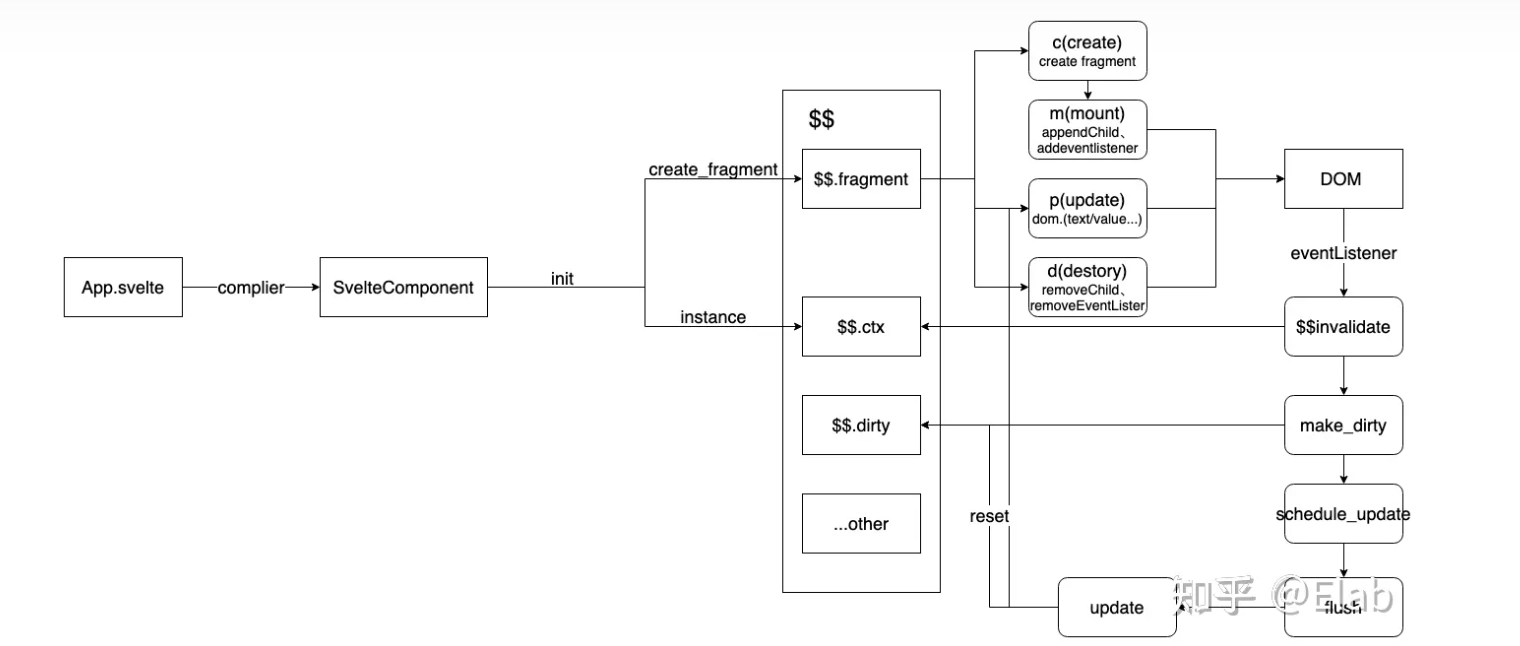
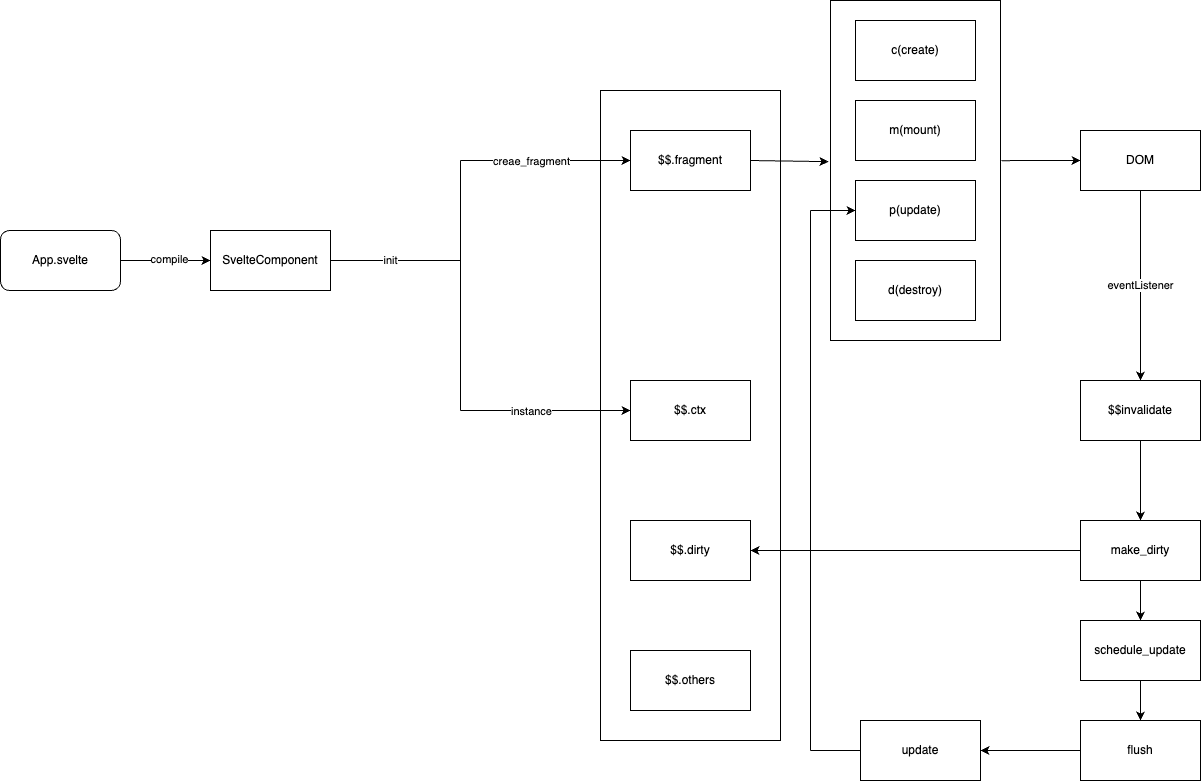
doc: 流程

diff --git a/45-【展望】致谢.md b/45-【展望】致谢.md
@@ -1,6 +1,6 @@
 恭喜你，相信经过这段时间的刻苦学习，你又掌握了一门技艺，又在前端旅程上更近一步。
 
-这段时间我总是如履薄冰，生怕自己写的文章会没有读者，亦或者被读者嫌弃是对其他文章的东施效颦。但庆幸的是，仍有读者阅读花上自己的宝贵时间，来购买阅读这本小册，在这里鞠躬感谢。这是我写的第一本小册，本着小而精的原则，在介绍一些知识时，我尽可能地把重要的部分讲解到位，而抽离了一些过于细节繁琐的部分。因此，如果觉得小册不够完美，还请读者朋友们包涵。
+这段时间我总是如履薄冰，生怕自己写的文章会没有读者。但庆幸的是，仍有读者阅读花上自己的宝贵时间，来购买阅读这本小册，在这里鞠躬感谢。这是我写的第一本小册，本着小而精的原则，在介绍一些知识时，我尽可能地把重要的部分讲解到位，而抽离了一些过于细节繁琐的部分。《源码》和《实现》这两章，单拎出来都能写成一本小册，因此也是点到为止。所以，如果觉得小册不够完美，还请读者朋友们包涵。
 
 对于全本小册的难易程度，我采用了螺旋前进式的方式进行讲解，让读者朋友们不会随着文章阅读的深入，渐渐觉得难度过大而力不从心。
 ![](image.png)

diff --git a/37-【源码】流程.md b/37-【源码】流程.md
@@ -725,8 +725,6 @@ const node = this.var;
     end: this.renderer.locate(this.node.end)
   };
   block.chunks.mount.push(insert);
-  // TODO we eventually need to consider what happens to elements
-  // that belong to the same outgroup as an outroing element...
   block.chunks.destroy.push(b`if (detaching) @detach(${node});`);
 + console.log('svelte render_element insert', insert, node, b`if (detaching) @detach(${node});`)
 ```
@@ -1123,8 +1121,6 @@ const result =
 
 ## runtime
 
-![](./img/37-44.png) TODO: 重画
-
 我们把在编译后得到的js代码复制进一个文件中`index.js`。
 在svelte源码项目目录下新建一个目录叫`test-runtime`，新建一个index.html：
 ```html
@@ -1270,6 +1266,9 @@ export function set_data(text, data) {
 }
 ```
 `set_data`方法的主要逻辑则是更新text节点的data属性的值。
+
+最后也提供一个简易的流程图：
+![](./img/37-44.png)
 
 ## 小结
 

diff --git a/35-【源码】compiler.md b/35-【源码】compiler.md
@@ -1101,6 +1101,8 @@ export default class Renderer {
 
 ```
 
+TODO: 对原来在`new Component()`中生成的fragment进行包裹，这里的fragment属性经过包裹后，和原来的fragment已经不同。
+
 ##### Block
 ```javascript
 import { b, x } from 'code-red';

diff --git a/README.md b/README.md
@@ -64,4 +64,4 @@
 ## 展望
 
 - [x] 生态
-- [ ] 致谢
+- [x] 致谢
